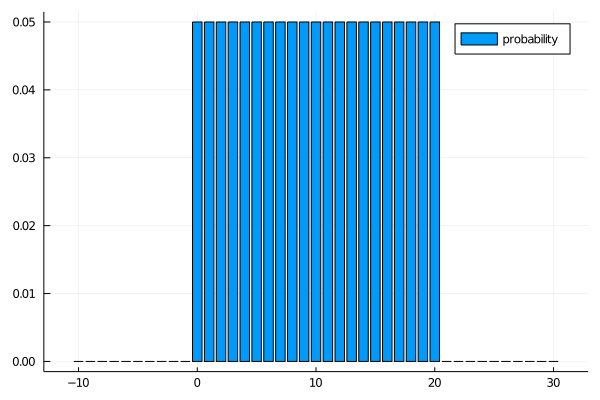
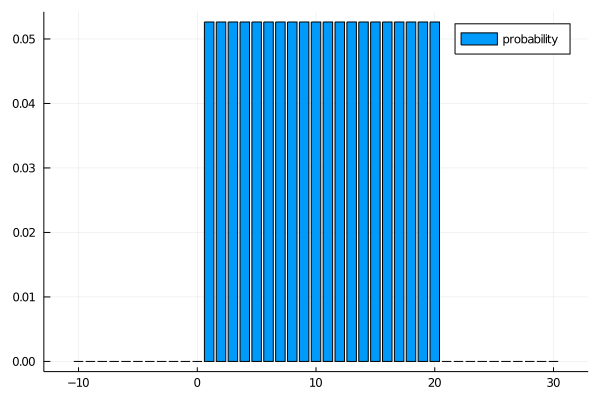
add follow up for balloon post

diff --git a/_posts/2021-09-08-popping-balloons-2.md b/_posts/2021-09-08-popping-balloons-2.md
@@ -1,0 +1,159 @@
+---
+layout: post
+title: Popping balloons (2)
+date: 2021-09-08
+published: true
+categories: julia probability risk
+---
+
+<script type="text/javascript" src="http://cdn.mathjax.org/mathjax/latest/MathJax.js?config=TeX-AMS-MML_HTMLorMML"></script>
+
+<div id="outline-container-org77d1cb6" class="outline-2">
+<h2 id="org77d1cb6">Expected value of a single balloon</h2>
+<div class="outline-text-2" id="text-org77d1cb6">
+This is a follow up to the <a class="prev" href="{{page.previous.url}}">previous</a> post on the same game
+
+<p>
+Let us assume, as before, that the balloon pops at a certain level
+\(M\), and we believe \(M \sim \text{uniform}(1, 21)\). \(M = 1\) means the
+balloon will pop immediately after we pump it once. 
+</p>
+
+<p>
+I figured out in the last post that the optimal strategy in this case
+is to push 10 or 11 times, then stop. But what is then the expected
+value of this game?  There are two options, either we reach 10 pushes
+without popping the balloon, or it pops before we get there. Let's
+call our cashout \(B\), and the expected value is
+</p>
+
+\begin{align}
+\mathbb{E}\left(B\right) &= \mathbb{P}\left(\text{reach 10
+pushes}\right) \cdot 10 \\
+&= \mathbb{P}(M > 10) \cdot 10 = 5
+\end{align}
+
+<p>
+This is a simple formula, the expected value is the probability of
+reaching the goal times the goal set. Using this, we can easily
+evaluate other strategies. For example, what if our
+strategy is to play 11 times?
+</p>
+
+<div class="org-src-container">
+<pre class="src src-ess-julia">11 * (9 / 20)
+</pre>
+</div>
+
+<pre class="example">
+4.95
+</pre>
+
+
+<p>
+Plotting the expected value for all strategies, it follows a parabole,
+topping out at 10 as calculated before.
+</p>
+
+<div class="org-src-container">
+<pre class="src src-ess-julia"><span style="color: #b6a0ff;">using</span> Plots
+
+bar(x -&gt; (x * (20 - x) / 20), 0:20, labels=<span style="color: #79a8ff;">"expected value"</span>, color=<span style="color: #79a8ff;">"purple"</span>)
+</pre>
+</div>
+
+
+<div id="org49470da" class="figure">
+<p><img src="/assets/images/uniformexpected.png" alt="uniformexpected.png" />
+</p>
+</div>
+</div>
+
+<div id="outline-container-org011668b" class="outline-3">
+<h3 id="org011668b">A different distribution for \(M\)</h3>
+<div class="outline-text-3" id="text-org011668b">
+<p>
+Now what if I believe \(M\) to follow a Poisson distribution, and let's
+take 11 as the parameter as an example. First a plot of the distribution of \(M\).
+</p>
+
+<div class="org-src-container">
+<pre class="src src-ess-julia"><span style="color: #b6a0ff;">using</span> Distributions
+
+belief = Poisson(11)
+
+bar(x -&gt; pdf(belief, x), -10:30, labels=<span style="color: #79a8ff;">"probability"</span>, color=<span style="color: #79a8ff;">"brown"</span>)
+</pre>
+</div>
+
+
+<div id="orgac698f4" class="figure">
+<p><img src="/assets/images/poissondist.png" alt="poissondist.png" />
+</p>
+</div>
+
+<p>
+And these are the expected values of playing on until a certain payoff
+</p>
+
+<div class="org-src-container">
+<pre class="src src-ess-julia">belief = Poisson(11)
+
+expected = x -&gt; (1 - cdf(belief, x)) * x
+
+bar(expected, 0:20, labels=<span style="color: #79a8ff;">"expected value"</span>, color=<span style="color: #79a8ff;">"yellow"</span>)
+</pre>
+</div>
+
+
+<div id="orgcbce420" class="figure">
+<p><img src="/assets/images/poissonexp.png" alt="poissonexp.png" />
+</p>
+</div>
+
+<p>
+The optimal strategy is to play 8 rounds. The interesting thing is
+that the two underlying distributions I analyzed have the same
+average, but with a Poisson distribution it is optimal to stop before
+reaching the average round at which the balloon pops. 
+</p>
+
+<div class="org-src-container">
+<pre class="src src-ess-julia">mean(Uniform(1, 21)), mean(Poisson(11))
+</pre>
+</div>
+
+<table border="2" cellspacing="0" cellpadding="6" rules="groups" frame="hsides">
+
+
+<colgroup>
+<col  class="org-right" />
+</colgroup>
+<tbody>
+<tr>
+<td class="org-right">11.0</td>
+</tr>
+
+<tr>
+<td class="org-right">11.0</td>
+</tr>
+</tbody>
+</table>
+</div>
+</div>
+
+<div id="outline-container-org5de8d4c" class="outline-3">
+<h3 id="org5de8d4c">Summary</h3>
+<div class="outline-text-3" id="text-org5de8d4c">
+<p>
+In this post I used a much more straightforward formula to find the
+optimal strategy, and was able to calculate expected payoffs for
+different strategies for two different distributions. How the shape of
+the distribution influences the optimal strategy is interesting, can
+this be generalized to other distributions? Thanks for reading this
+post, if you want to reach out, post an issue to the <a href="https://github.com/Gijs-Koot/Gijs-Koot.github.io">Github repository
+of this website</a> or contact me on Twitter!
+</p>
+</div>
+</div>
+</div>

diff --git a/_posts/2021-08-27-balloons.md b/_posts/2021-08-27-balloons.md
@@ -80,12 +80,12 @@ pressure is not above 20, but any number below is equally likely.
 <pre class="src src-ess-julia"><span style="color: #b6a0ff;">using</span> Plots
 <span style="color: #b6a0ff;">using</span> Distributions
 
-belief = Uniform(0, 20)
+belief = Uniform(1, 21)
 bar(x -&gt; pdf(belief, x), -10:30, labels=<span style="color: #79a8ff;">"probability"</span>)
 </pre>
 </div>
 
-<div id="orgcbaf374" class="figure">
+<div id="orgcab304d" class="figure">
 <p><img src="/assets/images/uniformbelief.png" alt="uniformbelief.png" />
 </p>
 </div>
@@ -99,7 +99,7 @@ your updated belief about \(M\)? You've discarded all the possibilities
 
 <p>
 \[
-\mathbb{P}(M = 20) = \mathbb{P}(M = 19) = \frac{1}{2}
+\mathbb{P}(M = 21) = \mathbb{P}(M = 20) = \frac{1}{2}
 \]
 </p>
 
@@ -109,12 +109,12 @@ value of pumping is 10,
 </p>
 
 \begin{align}
-\mathbb{E}(\text{pump}) = \mathbb{P}(M = 19) \cdot 0 + \mathbb{P}(M = 20) \cdot 20
+\mathbb{E}(\text{pump}) = \mathbb{P}(M = 20) \cdot 0 + \mathbb{P}(M = 21) \cdot 20
 = \frac{1}{2}\cdot 20 = 10
 \end{align}
 
 <p>
-Let's do this calculation for 18. Your updated prior is that the
+Let's do this calculation for 19. Your updated prior is that the
 probability that it will break after one pump is \(\frac{1}{3}\). The
 expected value of a pump is
 </p>
@@ -144,7 +144,7 @@ scatter!(i -&gt; i, 0:20, labels=<span style="color: #79a8ff;">"Cash"</span>)
 </div>
 
 
-<div id="orga64ec2f" class="figure">
+<div id="orgb17509c" class="figure">
 <p><img src="/assets/images/uniformpumpvcash.png" alt="uniformpumpvcash.png" />
 </p>
 </div>
